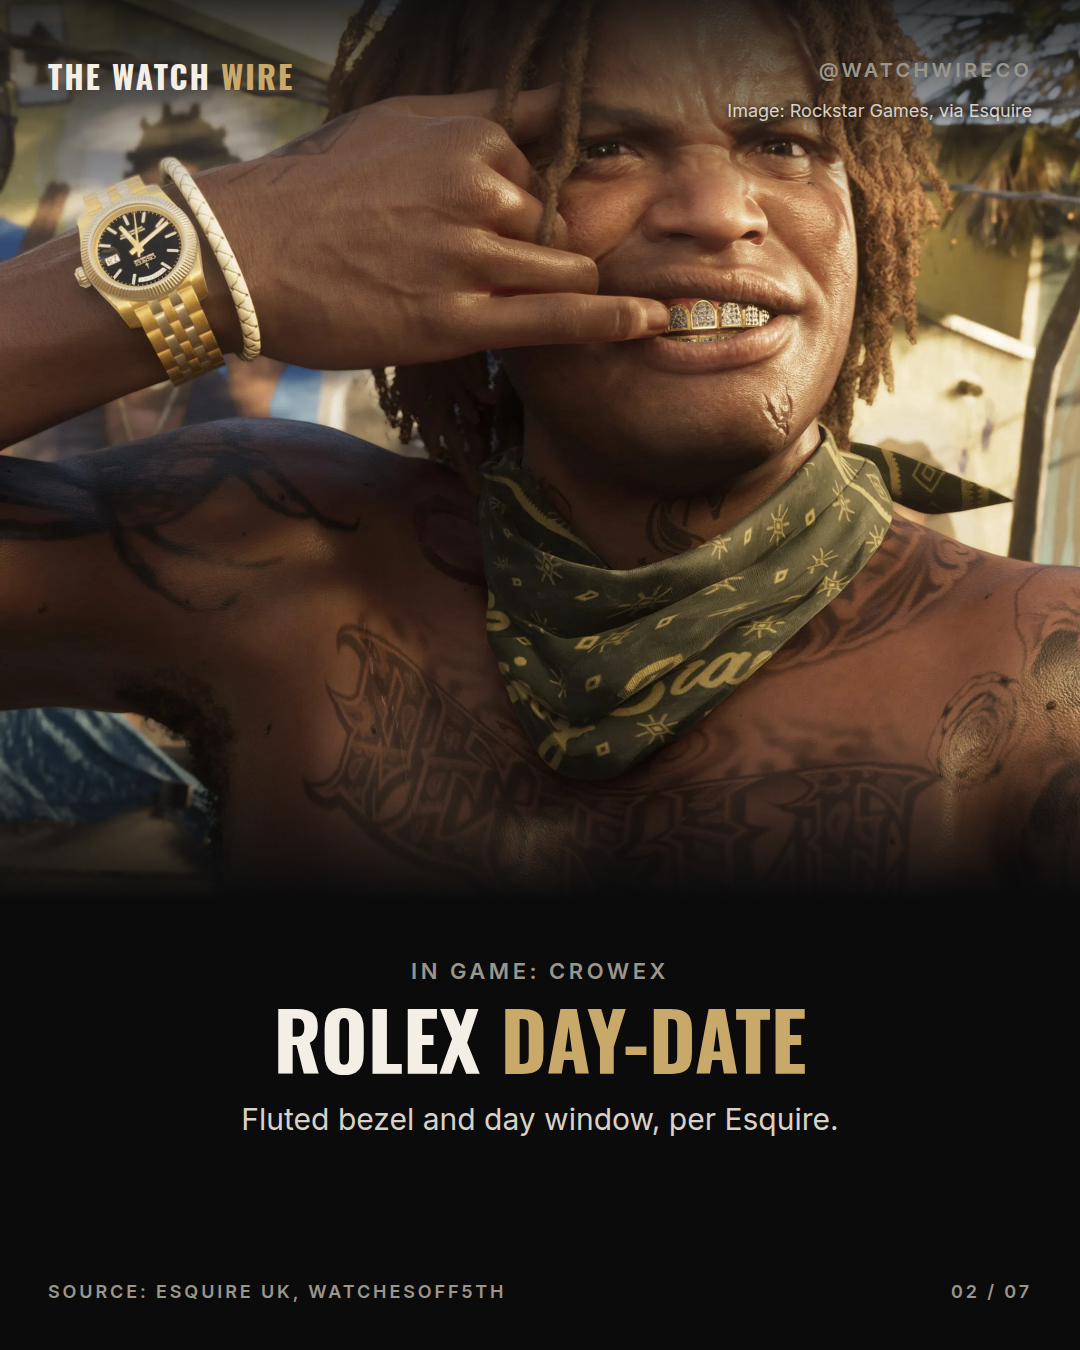
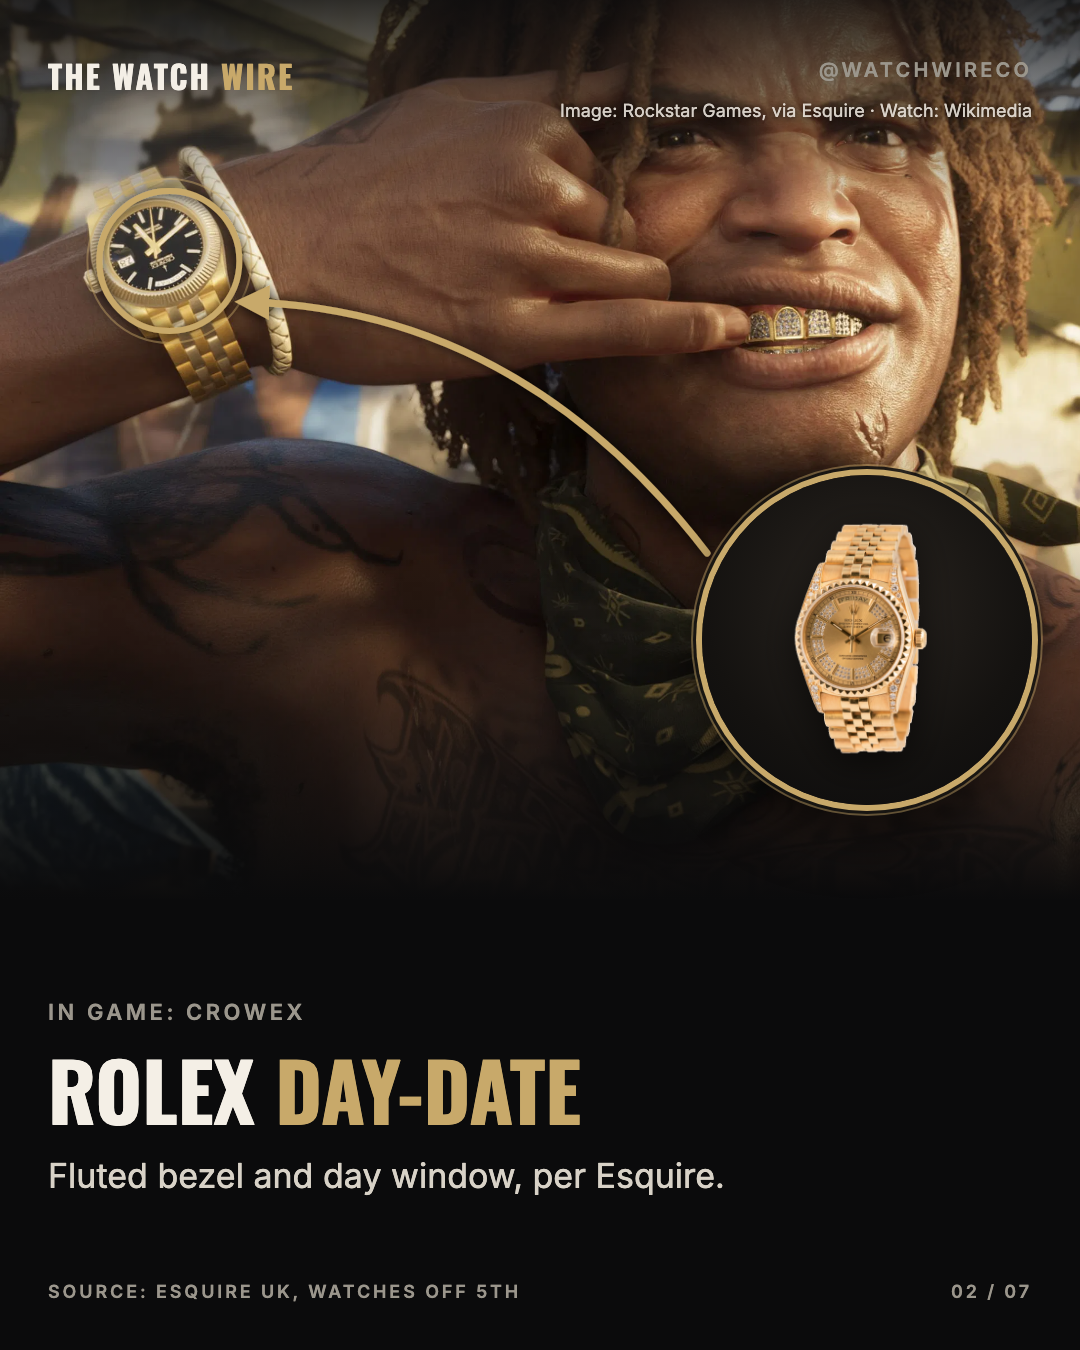
Spotted slide redesign: watch cut out in a gold medallion, gold arrow and ring on the wrist, shot zoomed so the watch shows, faces kept clear; photo.js grid; GTA post updated

diff --git a/watch-wire-engine/src/photo.js b/watch-wire-engine/src/photo.js
@@ -259,6 +259,20 @@ async function credited(url, word, owner, slugName) {
   out({ ok: true, credit: `Image: ${owner}, via ${host[0].toUpperCase() + host.slice(1)}`, images: kept });
 }
 
+// ---------- grid: overlay a 10% grid on an image so the editor can read the wrist position (for A-spotted) ----------
+//   photo.js grid <image>   → writes <image>.grid.png; Read it and give wrist {x, y} in percent
+function grid(file) {
+  if (!file || !fs.existsSync(path.resolve(ROOT, file))) fail("usage: grid <image path>");
+  const abs = path.resolve(ROOT, file), out = abs.replace(/\.\w+$/, ".grid.png"), html = abs + ".grid.html";
+  const lines = [1, 2, 3, 4, 5, 6, 7, 8, 9].map((k) => `<div style="position:absolute;left:${k * 10}%;top:0;bottom:0;border-left:1px solid #ff0"></div><div style="position:absolute;top:${k * 10}%;left:0;right:0;border-top:1px solid #ff0"></div><b style="position:absolute;left:${k * 10}%;top:2px;color:#ff0;font:16px Arial">${k * 10}</b><b style="position:absolute;top:${k * 10}%;left:2px;color:#ff0;font:16px Arial">${k * 10}</b>`).join("");
+  fs.writeFileSync(html, `<html><body style="margin:0"><div style="position:relative;width:800px;height:800px;background:url('file://${abs}') center/100% 100%">${lines}</div></body></html>`);
+  const CHROME = process.env.CHROME || (process.platform === "darwin" ? "/Applications/Google Chrome.app/Contents/MacOS/Google Chrome" : "google-chrome");
+  execFileSync(CHROME, ["--headless=new", "--disable-gpu", "--hide-scrollbars", "--allow-file-access-from-files", "--window-size=800,800", `--screenshot=${out}`, "file://" + html], { stdio: "ignore" });
+  fs.rmSync(html);
+  out_({ ok: true, grid: path.relative(ROOT, out), note: "Read it; wrist = {x, y} in percent of the image" });
+}
+function out_(o) { out(o); }
+
 // ---------- Wikimedia Commons licence lookup ----------
 async function commonsInfo(fileTitles) {
   const q = new URLSearchParams({ action: "query", format: "json", formatversion: "2", prop: "imageinfo", iiprop: "url|extmetadata|size", iiurlwidth: "1600", titles: fileTitles.join("|") });
@@ -326,6 +340,7 @@ try {
   else if (cmd === "person") await person(arg);
   else if (cmd === "press") await press(arg, opt("brand"), opt("person"));
   else if (cmd === "gallery") await gallery(arg, opt("owner"), opt("slug"));
+  else if (cmd === "grid") grid(arg);
   else if (cmd === "credited") await credited(arg, opt("credit"), opt("owner"), opt("slug"));
   else if (cmd === "commons") await commons(arg, opt("ref"));
   else if (cmd === "find") find(arg);
